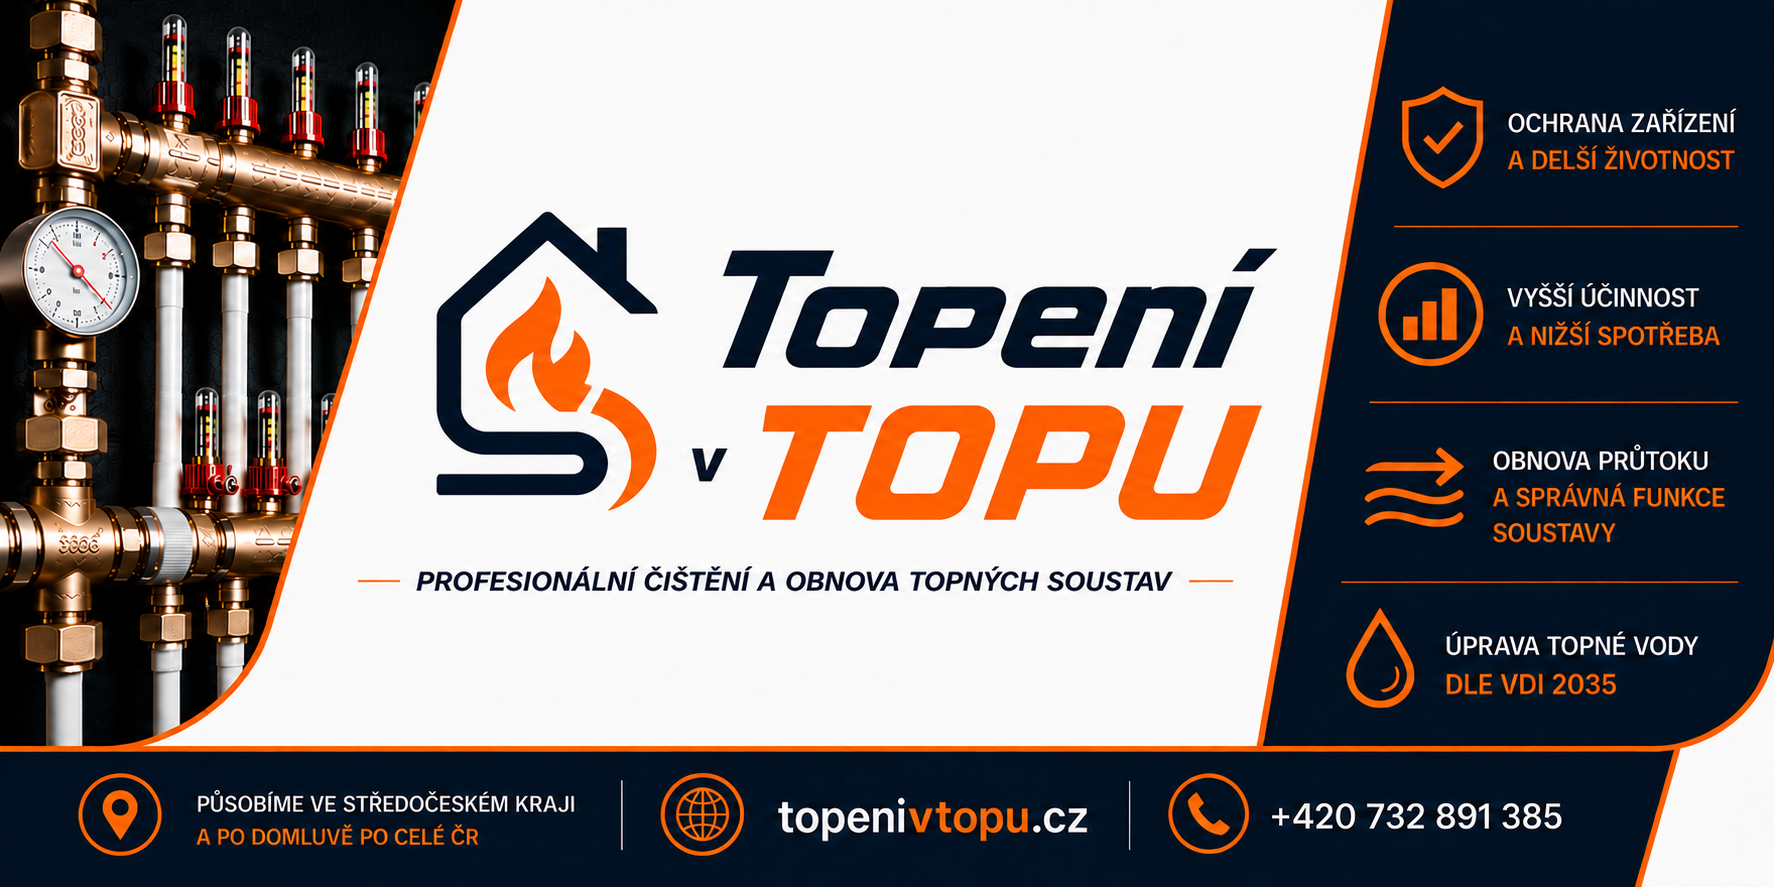
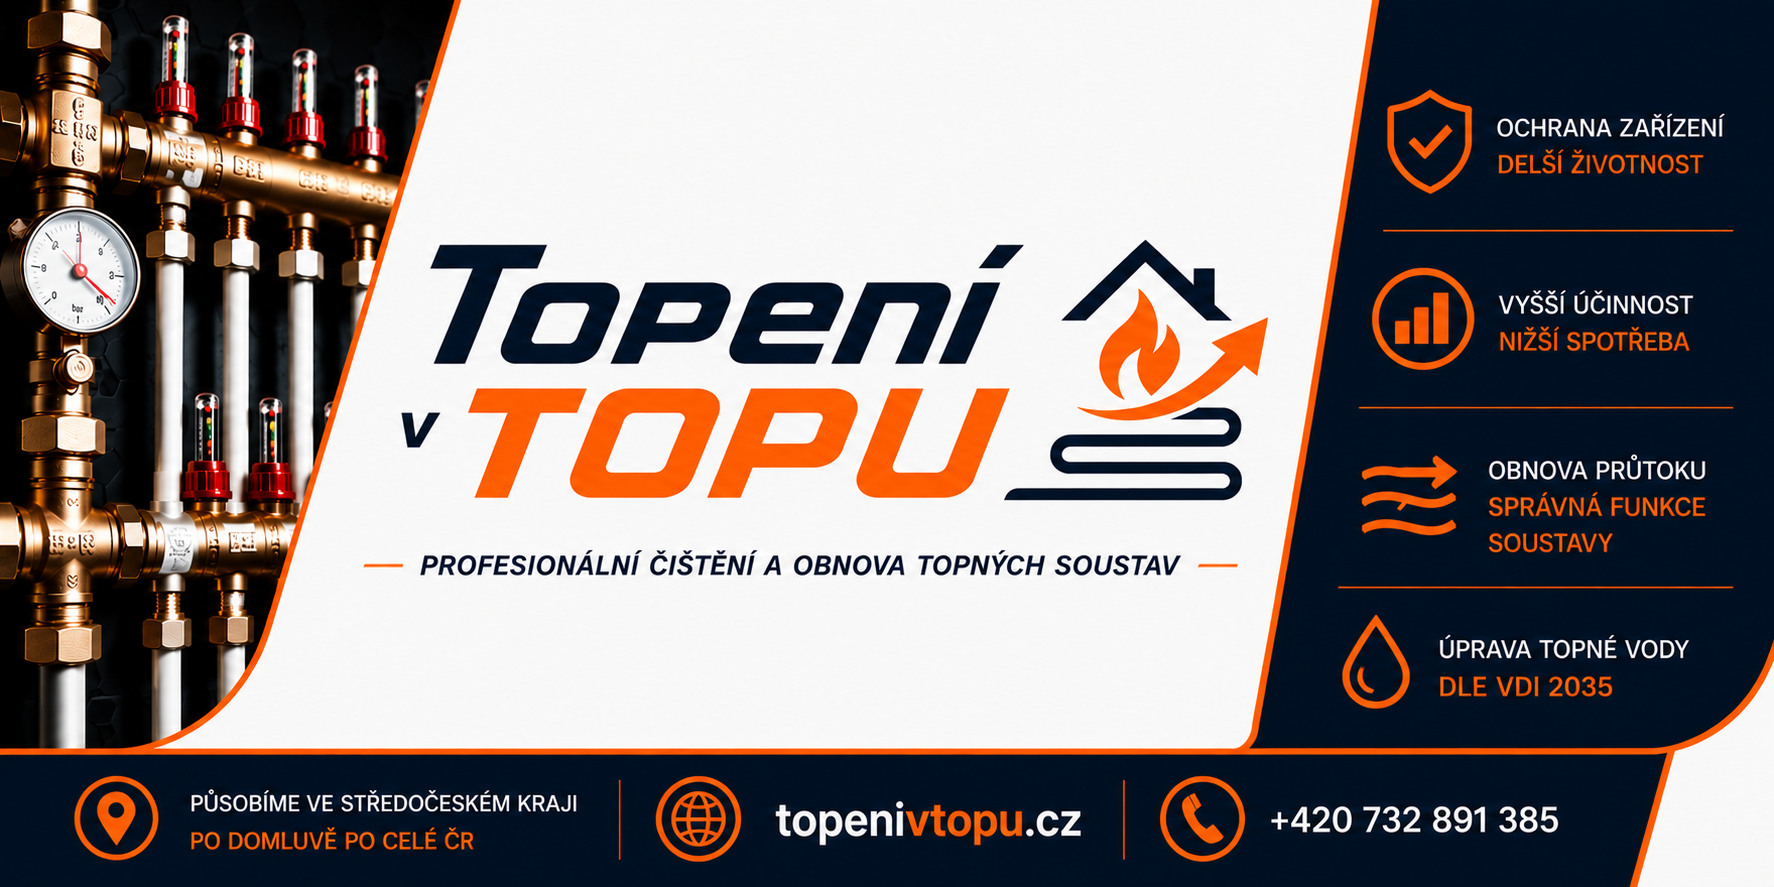
Verze 2 webu

Changed region(s): [[0.0, 0.0, 0.9921, 0.9741], [0.9611, 0.7306, 1.0, 0.8219], [0.8991, 0.9436, 0.9301, 1.0]]

diff --git a/index.html b/index.html
@@ -4,121 +4,154 @@
   <meta charset="utf-8" />
   <meta name="viewport" content="width=device-width, initial-scale=1" />
   <title>Topení v TOPU | Profesionální čištění a obnova topných soustav</title>
-  <meta name="description" content="Profesionální čištění a obnova topných soustav. Proplach topení, obnova průtoku a úprava topné vody dle VDI 2035. Středočeský kraj a po domluvě celá ČR." />
+  <meta name="description" content="Profesionální čištění, obnova průtoku a servis topných soustav ve Středočeském kraji. Radovan Alvín, Topení v TOPU." />
+  <meta name="theme-color" content="#061426" />
+  <meta property="og:title" content="Topení v TOPU" />
+  <meta property="og:description" content="Profesionální čištění a obnova topných soustav ve Středočeském kraji." />
+  <meta property="og:image" content="assets/banner.png" />
   <link rel="stylesheet" href="styles.css" />
 </head>
 <body>
-  <header class="site-header" id="top">
-    <a class="brand" href="#top" aria-label="Topení v TOPU">
-      <img src="assets/logo.png" alt="Topení v TOPU" />
+  <div class="noise"></div>
+  <header class="site-header">
+    <a class="brand" href="#top" aria-label="Topení v TOPU domů">
+      <span class="brand-mark">TOP</span>
+      <span>Topení <b>v TOPU</b></span>
     </a>
-    <nav class="nav" aria-label="Hlavní navigace">
+    <nav>
       <a href="#sluzby">Služby</a>
-      <a href="#proc">Proč to řešit</a>
-      <a href="#postup">Postup</a>
+      <a href="#diagnostika">Diagnostika</a>
+      <a href="#firmy">Pro firmy</a>
       <a href="#kontakt">Kontakt</a>
     </nav>
-    <a class="nav-phone" href="tel:+420732891385">+420 732 891 385</a>
+    <a class="header-phone" href="tel:+420732891385">+420 732 891 385</a>
   </header>
 
-  <main>
+  <main id="top">
     <section class="hero">
-      <div class="hero-content">
-        <p class="eyebrow">Topení v TOPU</p>
-        <h1>Profesionální čištění a obnova topných soustav</h1>
-        <p class="lead">Proplach topení, obnova průtoku a úprava topné vody dle VDI 2035. Pomáháme chránit drahé komponenty a vracet soustavám výkon.</p>
+      <div class="hero-copy reveal">
+        <p class="eyebrow">Středočeský kraj · po domluvě celá ČR</p>
+        <h1>Topná soustava má fungovat. Ne jen nějak přežívat.</h1>
+        <p class="lead">Profesionální čištění, obnova průtoku a úprava topné vody pro rodinné domy, bytové domy, provozy i partnerské firmy.</p>
         <div class="hero-actions">
           <a class="btn primary" href="tel:+420732891385">Zavolat</a>
-          <a class="btn ghost" href="#kontakt">Nezávazná poptávka</a>
+          <a class="btn secondary" href="mailto:[email redacted]">Poslat poptávku</a>
         </div>
         <div class="trust-row">
-          <span>Středočeský kraj</span>
-          <span>Po domluvě celá ČR</span>
-          <span>VDI 2035</span>
+          <span>Obnova průtoku</span>
+          <span>Nižší spotřeba</span>
+          <span>Delší životnost zařízení</span>
         </div>
       </div>
-      <div class="hero-media" aria-label="Ukázka firemního banneru">
-        <img src="assets/banner.png" alt="Topení v TOPU banner" />
-      </div>
-    </section>
-
-    <section class="benefits" id="proc">
-      <article>
-        <div class="icon shield"></div>
-        <h2>Ochrana zařízení</h2>
-        <p>Správně ošetřená topná voda pomáhá chránit čerpadla, ventily, výměníky i tepelné zdroje.</p>
-      </article>
-      <article>
-        <div class="icon chart"></div>
-        <h2>Vyšší účinnost</h2>
-        <p>Obnovený průtok a čistší soustava pomáhají dostat teplo tam, kde má být. Překvapivé, fyzika zase jednou funguje.</p>
-      </article>
-      <article>
-        <div class="icon flow"></div>
-        <h2>Obnova průtoku</h2>
-        <p>Řešíme zanesené okruhy, špatné průtoky a nerovnoměrné vytápění v podlahovém topení i topných soustavách.</p>
-      </article>
-      <article>
-        <div class="icon drop"></div>
-        <h2>Úprava topné vody</h2>
-        <p>Po čištění pomáháme nastavit parametry vody podle smysluplných technických požadavků včetně VDI 2035.</p>
-      </article>
-    </section>
-
-    <section class="split" id="sluzby">
-      <div>
-        <p class="eyebrow">Co děláme</p>
-        <h2>Neprodáváme hadici s čerpadlem. Řešíme kondici topné soustavy.</h2>
-        <p>Pro zákazníka je důležité, aby topení fungovalo spolehlivě, úsporně a bez zbytečného trápení. Proto dává větší smysl řešit celý stav soustavy, ne jen „nějaký proplach“.</p>
-      </div>
-      <div class="service-list">
-        <div>
-          <strong>Proplach topení</strong>
-          <span>Odstranění nečistot, kalů a omezení průtoku.</span>
-        </div>
-        <div>
-          <strong>Obnova výkonu</strong>
-          <span>Lepší průtoky, rovnoměrnější vytápění, lepší funkce okruhů.</span>
-        </div>
-        <div>
-          <strong>Úprava topné vody</strong>
-          <span>Doplnění a kontrola vody s ohledem na ochranu soustavy.</span>
-        </div>
-        <div>
-          <strong>Diagnostika</strong>
-          <span>Základní kontrola průtoků, tlaku a viditelných problémů.</span>
-        </div>
+      <div class="hero-banner reveal">
+        <img src="assets/banner.png" alt="Topení v TOPU - profesionální čištění a obnova topných soustav" />
       </div>
     </section>
 
-    <section class="process" id="postup">
-      <p class="eyebrow">Postup práce</p>
-      <h2>Jednoduše, přehledně, bez divadla</h2>
-      <div class="steps">
-        <article><span>01</span><h3>Kontrola soustavy</h3><p>Podíváme se na typ soustavy, rozdělovače, průtoky a příznaky problému.</p></article>
-        <article><span>02</span><h3>Proplach a čištění</h3><p>Podle stavu provedeme proplach okruhů a odstranění nečistot ze soustavy.</p></article>
-        <article><span>03</span><h3>Úprava vody</h3><p>Topnou vodu řešíme tak, aby dávala technický smysl a chránila zařízení.</p></article>
-        <article><span>04</span><h3>Výsledek</h3><p>Zákazník ví, co bylo provedeno a jaký má soustava další režim údržby.</p></article>
+    <section class="section stats reveal" aria-label="Hlavní přínosy">
+      <div><strong>01</strong><span>Diagnostika problému</span></div>
+      <div><strong>02</strong><span>Čištění a proplach</span></div>
+      <div><strong>03</strong><span>Kontrola výsledku</span></div>
+      <div><strong>04</strong><span>Protokol a doporučení</span></div>
+    </section>
+
+    <section id="sluzby" class="section">
+      <div class="section-head reveal">
+        <p class="eyebrow">Služby</p>
+        <h2>Neprodávám ti nový kotel. Nejdřív dám do pořádku soustavu.</h2>
+        <p>Protože výměna zařízení bez funkčního průtoku je často jen drahá dekorace do technické místnosti. Lidstvo tomu říká modernizace, peněženka tomu říká průvan.</p>
+      </div>
+      <div class="cards">
+        <article class="card reveal">
+          <span class="icon">≈</span>
+          <h3>Proplach topných soustav</h3>
+          <p>Obnova průtoku, odstranění kalu a nečistot ze soustavy. Vhodné pro radiátory, podlahové topení i kombinované systémy.</p>
+        </article>
+        <article class="card reveal">
+          <span class="icon">⌁</span>
+          <h3>Diagnostika závad</h3>
+          <p>Studené radiátory, hlučnost, zanesené filtry, špatný průtok nebo nerovnoměrné topení. Najdeme příčinu, ne jen obětní ventil.</p>
+        </article>
+        <article class="card reveal">
+          <span class="icon">◌</span>
+          <h3>Úprava topné vody</h3>
+          <p>Doporučení a nastavení péče o topnou vodu podle technických požadavků, včetně prevence koroze a usazování nečistot.</p>
+        </article>
+        <article class="card reveal">
+          <span class="icon">▣</span>
+          <h3>Tlaková zkouška a protokol</h3>
+          <p>Kontrola stavu soustavy, dokumentace průběhu práce a výstup, který můžeš předat zákazníkovi, správci nebo partnerovi.</p>
+        </article>
       </div>
     </section>
 
-    <section class="cta" id="kontakt">
-      <div>
+    <section id="diagnostika" class="section diagnostics">
+      <div class="section-head reveal">
+        <p class="eyebrow">Diagnostika problémů</p>
+        <h2>Najdi svůj příznak. Pak řeš příčinu.</h2>
+      </div>
+      <div class="diagnostic-grid">
+        <button class="diagnostic active" data-answer="Nerovnoměrný průtok často znamená zanesení soustavy, špatné vyvážení nebo kombinaci obojího. Začíná se kontrolou filtrů, průtoku a teplotních rozdílů.">Radiátory topí nerovnoměrně</button>
+        <button class="diagnostic" data-answer="Opakovaně zanesený filtr není normální provozní stav. Je to signál, že v soustavě koluje kal, magnetit nebo zbytky po montáži.">Filtr je pořád plný nečistot</button>
+        <button class="diagnostic" data-answer="Chyby průtoku u tepelných čerpadel často nesouvisí s čerpadlem samotným, ale s hydraulikou a nečistotami v okruhu. Proto se řeší soustava, ne panika.">Tepelné čerpadlo hlásí průtok</button>
+        <button class="diagnostic" data-answer="Hlučnost může způsobovat vzduch, usazeniny, nevhodný průtok nebo špatné nastavení. Bez diagnostiky je to věštění z odvzdušňováku.">Soustava šumí nebo bouchá</button>
+      </div>
+      <div class="answer reveal" id="diagnosticAnswer">Nerovnoměrný průtok často znamená zanesení soustavy, špatné vyvážení nebo kombinaci obojího. Začíná se kontrolou filtrů, průtoku a teplotních rozdílů.</div>
+    </section>
+
+    <section id="firmy" class="section split">
+      <div class="reveal">
+        <p class="eyebrow">Spolupráce</p>
+        <h2>Pro instalatéry, správce budov a firmy, které chtějí mít problém vyřešený.</h2>
+      </div>
+      <div class="reveal">
+        <p>Pomůžu tam, kde je potřeba vyčistit, zkontrolovat nebo obnovit funkci topné soustavy. Můžeš mě přizvat jako specializovaného partnera bez toho, abych ti lezl do montážní práce.</p>
+        <ul class="checklist">
+          <li>specializovaný proplach a čištění</li>
+          <li>protokol ke konkrétní zakázce</li>
+          <li>možnost dlouhodobé spolupráce</li>
+          <li>férová komunikace se zákazníkem</li>
+        </ul>
+      </div>
+    </section>
+
+    <section class="section process">
+      <div class="section-head reveal">
+        <p class="eyebrow">Postup</p>
+        <h2>Žádná magie. Jen správný postup.</h2>
+      </div>
+      <div class="timeline">
+        <div class="step reveal"><b>1</b><h3>Prohlídka</h3><p>Zjistíme typ soustavy, počet těles, problém a možnosti napojení.</p></div>
+        <div class="step reveal"><b>2</b><h3>Diagnostika</h3><p>Kontrola filtrů, průtoku, teplotních rozdílů a provozních příznaků.</p></div>
+        <div class="step reveal"><b>3</b><h3>Čištění</h3><p>Proplach vodou, vzduchem a vhodným režimem podle stavu soustavy.</p></div>
+        <div class="step reveal"><b>4</b><h3>Výstup</h3><p>Doporučení další péče, případně protokol a dokumentace pro zákazníka.</p></div>
+      </div>
+    </section>
+
+    <section id="kontakt" class="section contact">
+      <div class="contact-card reveal">
         <p class="eyebrow">Kontakt</p>
-        <h2>Chcete vrátit topení do topu?</h2>
-        <p>Napište nebo zavolejte. Stačí popsat typ soustavy, problém a lokalitu.</p>
+        <h2>Chceš vědět, jestli má proplach smysl i u tebe?</h2>
+        <p>Pošli fotky technické místnosti, popiš problém a ozvu se s reálným doporučením. Ne pohádkou, že všechno zachrání jeden zázračný přípravek.</p>
+        <div class="contact-actions">
+          <a class="btn primary" href="tel:+420732891385">+420 732 891 385</a>
+          <a class="btn secondary" href="mailto:[email redacted]">[email redacted]</a>
+        </div>
       </div>
-      <div class="contact-card">
-        <a href="tel:+420732891385">+420 732 891 385</a>
-        <a href="https://topenivtopu.cz">topenivtopu.cz</a>
-        <span>Středočeský kraj, po domluvě celá ČR</span>
+      <div class="company reveal">
+        <h3>Topení v TOPU</h3>
+        <p>Radovan Alvín</p>
+        <p>IČO: 19339526</p>
+        <p>Působnost: Středočeský kraj</p>
+        <p>Po domluvě zakázky po celé ČR</p>
       </div>
     </section>
   </main>
 
   <footer>
-    <span>© Topení v TOPU</span>
-    <a href="#top">Nahoru</a>
+    <span>© 2026 Topení v TOPU · Radovan Alvín · IČO 19339526</span>
+    <span><a href="tel:+420732891385">+420 732 891 385</a> · <a href="mailto:[email redacted]">[email redacted]</a></span>
   </footer>
+  <script src="script.js"></script>
 </body>
 </html>

diff --git a/styles.css b/styles.css
@@ -1,29 +1,4 @@
 :root{
-  --navy:#06172f;
-  --navy-2:#0a2344;
-  --orange:#ff650f;
-  --orange-2:#ff7a1a;
-  --text:#0b1628;
-  --muted:#637083;
-  --line:#dfe5ee;
-  --bg:#f6f8fb;
-  --white:#fff;
-  --radius:28px;
-  --shadow:0 24px 70px rgba(6,23,47,.14);
+  --bg:#06111f; --bg2:#0a1d32; --card:#0d2035cc; --text:#f5f7fb; --muted:#a9b5c7; --orange:#ff650d; --orange2:#ff8b2b; --line:#1f3856; --white:#fff;
 }
-*{box-sizing:border-box}
-html{scroll-behavior:smooth}
-body{margin:0;font-family:Inter, ui-sans-serif, system-ui, -apple-system, BlinkMacSystemFont, "Segoe UI", sans-serif;color:var(--text);background:var(--bg);line-height:1.5}
-a{color:inherit;text-decoration:none}
-img{max-width:100%;display:block}
-.site-header{position:sticky;top:0;z-index:20;display:flex;align-items:center;justify-content:space-between;gap:24px;padding:14px clamp(18px,4vw,64px);background:rgba(255,255,255,.88);backdrop-filter:blur(18px);border-bottom:1px solid rgba(6,23,47,.08)}
-.brand img{height:52px;width:auto}.nav{display:flex;gap:24px;font-weight:700;font-size:15px;color:var(--navy)}.nav a:hover,.nav-phone:hover{color:var(--orange)}.nav-phone{font-weight:900;color:var(--navy);white-space:nowrap}
-.hero{display:grid;grid-template-columns:minmax(0,0.95fr) minmax(0,1.35fr);gap:42px;align-items:center;padding:clamp(48px,7vw,110px) clamp(18px,4vw,64px) 56px;background:radial-gradient(circle at 80% 20%,rgba(255,101,15,.12),transparent 28%),linear-gradient(135deg,#fff 0%,#f8fbff 100%)}
-.hero-content{max-width:650px}.eyebrow{margin:0 0 12px;color:var(--orange);font-weight:900;text-transform:uppercase;letter-spacing:.12em;font-size:13px}.hero h1,.split h2,.process h2,.cta h2{margin:0;color:var(--navy);line-height:1.04;letter-spacing:-.04em}.hero h1{font-size:clamp(40px,5.2vw,82px)}.lead{font-size:clamp(18px,1.55vw,22px);color:var(--muted);margin:24px 0 30px}.hero-actions{display:flex;gap:14px;flex-wrap:wrap}.btn{display:inline-flex;align-items:center;justify-content:center;padding:15px 22px;border-radius:999px;font-weight:900}.btn.primary{background:var(--orange);color:#fff;box-shadow:0 14px 34px rgba(255,101,15,.34)}.btn.ghost{border:1px solid var(--line);background:#fff;color:var(--navy)}.trust-row{display:flex;gap:10px;flex-wrap:wrap;margin-top:28px}.trust-row span{padding:9px 12px;border-radius:999px;background:#fff;border:1px solid var(--line);font-weight:800;color:var(--navy);font-size:14px}.hero-media{border-radius:var(--radius);box-shadow:var(--shadow);overflow:hidden;background:#fff}.hero-media img{width:100%;height:100%;object-fit:cover}
-.benefits{display:grid;grid-template-columns:repeat(4,1fr);gap:18px;padding:22px clamp(18px,4vw,64px) 64px}.benefits article{background:#fff;border:1px solid var(--line);border-radius:24px;padding:28px;box-shadow:0 12px 30px rgba(6,23,47,.06)}.benefits h2{font-size:21px;margin:18px 0 8px;color:var(--navy)}.benefits p{margin:0;color:var(--muted)}.icon{width:54px;height:54px;border:3px solid var(--orange);border-radius:16px;position:relative}.icon.shield:before{content:'✓';position:absolute;inset:0;display:grid;place-items:center;color:var(--orange);font-size:30px;font-weight:900}.icon.chart:before{content:'';position:absolute;left:12px;bottom:12px;width:7px;height:17px;background:var(--orange);box-shadow:11px -8px 0 var(--orange),22px -17px 0 var(--orange)}.icon.flow:before{content:'→';position:absolute;inset:0;display:grid;place-items:center;color:var(--orange);font-size:34px;font-weight:900}.icon.drop{border-radius:50%}.icon.drop:before{content:'●';position:absolute;inset:0;display:grid;place-items:center;color:var(--orange);font-size:24px}
-.split,.process,.cta{margin:0 clamp(18px,4vw,64px) 64px;background:#fff;border-radius:var(--radius);border:1px solid var(--line);box-shadow:0 12px 30px rgba(6,23,47,.06)}.split{display:grid;grid-template-columns:1fr 1fr;gap:36px;padding:clamp(32px,5vw,70px)}.split h2,.process h2,.cta h2{font-size:clamp(30px,3.3vw,52px)}.split p{color:var(--muted);font-size:18px}.service-list{display:grid;gap:14px}.service-list div{padding:22px;border-radius:20px;background:var(--bg);border-left:5px solid var(--orange)}.service-list strong{display:block;color:var(--navy);font-size:20px}.service-list span{display:block;color:var(--muted);margin-top:4px}
-.process{padding:clamp(32px,5vw,70px)}.steps{display:grid;grid-template-columns:repeat(4,1fr);gap:16px;margin-top:30px}.steps article{padding:24px;border-radius:20px;background:linear-gradient(180deg,#fff,var(--bg));border:1px solid var(--line)}.steps span{color:var(--orange);font-weight:950}.steps h3{margin:8px 0;color:var(--navy)}.steps p{margin:0;color:var(--muted)}
-.cta{display:grid;grid-template-columns:1fr .8fr;gap:24px;align-items:center;padding:clamp(32px,5vw,70px);background:linear-gradient(135deg,var(--navy),#03101f);color:#fff}.cta h2{color:#fff}.cta p{color:#c8d2e0;font-size:18px}.contact-card{display:grid;gap:12px;background:rgba(255,255,255,.08);border:1px solid rgba(255,255,255,.14);border-radius:24px;padding:26px}.contact-card a{font-size:24px;font-weight:950}.contact-card a:hover{color:var(--orange)}.contact-card span{color:#c8d2e0}
-footer{display:flex;justify-content:space-between;gap:20px;padding:26px clamp(18px,4vw,64px);color:var(--muted);font-weight:700}
-@media (max-width:1000px){.hero,.split,.cta{grid-template-columns:1fr}.benefits,.steps{grid-template-columns:repeat(2,1fr)}.nav{display:none}.brand img{height:44px}}
-@media (max-width:620px){.site-header{padding:12px 16px}.nav-phone{font-size:14px}.hero{padding:34px 16px}.benefits{grid-template-columns:1fr;padding:16px 16px 42px}.steps{grid-template-columns:1fr}.split,.process,.cta{margin:0 16px 42px;padding:26px}.contact-card a{font-size:20px}.hero h1{font-size:38px}}
+*{box-sizing:border-box}html{scroll-behavior:smooth}body{margin:0;font-family:Inter,Segoe UI,Arial,sans-serif;background:radial-gradient(circle at 75% 10%,#12365f 0,#071322 34%,#030811 100%);color:var(--text);line-height:1.6;overflow-x:hidden}.noise{position:fixed;inset:0;pointer-events:none;opacity:.08;background-image:linear-gradient(45deg,transparent 48%,#fff 49%,transparent 50%);background-size:6px 6px;z-index:0}a{color:inherit;text-decoration:none}.site-header{position:sticky;top:0;z-index:50;display:flex;align-items:center;justify-content:space-between;gap:24px;padding:18px 5vw;background:rgba(3,8,17,.74);backdrop-filter:blur(18px);border-bottom:1px solid rgba(255,255,255,.08)}.brand{display:flex;align-items:center;gap:12px;font-weight:800;letter-spacing:.02em}.brand-mark{display:grid;place-items:center;width:42px;height:42px;border:2px solid var(--orange);border-radius:12px;color:var(--orange);font-size:.8rem}.brand b{color:var(--orange)}nav{display:flex;gap:26px;color:var(--muted);font-weight:650;font-size:.95rem}nav a:hover,.header-phone:hover{color:var(--orange)}.header-phone{border:1px solid rgba(255,101,13,.55);padding:10px 16px;border-radius:999px;color:#fff;font-weight:800}.hero{position:relative;display:grid;grid-template-columns:minmax(0,.85fr) minmax(450px,1.15fr);gap:44px;align-items:center;min-height:calc(100vh - 78px);padding:70px 5vw 50px}.hero:before{content:"";position:absolute;right:-12%;top:10%;width:48vw;height:48vw;border-radius:50%;background:radial-gradient(circle,rgba(255,101,13,.23),transparent 60%);filter:blur(10px)}.hero-copy,.hero-banner{position:relative;z-index:1}.eyebrow{margin:0 0 12px;color:var(--orange);font-weight:900;text-transform:uppercase;letter-spacing:.14em;font-size:.8rem}.hero h1{font-size:clamp(2.5rem,6vw,5.8rem);line-height:.95;margin:0 0 22px;letter-spacing:-.06em}.lead{font-size:clamp(1.05rem,1.55vw,1.35rem);color:#d7dfeb;max-width:650px}.hero-actions,.contact-actions{display:flex;flex-wrap:wrap;gap:14px;margin-top:28px}.btn{display:inline-flex;align-items:center;justify-content:center;min-height:50px;padding:0 22px;border-radius:999px;font-weight:900;transition:.25s}.btn.primary{background:linear-gradient(135deg,var(--orange),var(--orange2));box-shadow:0 18px 40px rgba(255,101,13,.25)}.btn.secondary{border:1px solid rgba(255,255,255,.18);background:rgba(255,255,255,.06)}.btn:hover{transform:translateY(-2px)}.trust-row{display:flex;flex-wrap:wrap;gap:12px;margin-top:26px;color:var(--muted);font-weight:800}.trust-row span{border:1px solid rgba(255,255,255,.1);border-radius:999px;padding:8px 12px;background:rgba(255,255,255,.04)}.hero-banner{border-radius:28px;overflow:hidden;border:1px solid rgba(255,255,255,.14);box-shadow:0 30px 90px rgba(0,0,0,.45),0 0 0 1px rgba(255,101,13,.2)}.hero-banner img{display:block;width:100%;height:auto}.section{padding:80px 5vw}.section-head{max-width:850px;margin-bottom:34px}.section h2{font-size:clamp(2rem,4vw,4.2rem);line-height:1;margin:0 0 18px;letter-spacing:-.04em}.section-head p:not(.eyebrow),.split p,.contact-card p{color:var(--muted);font-size:1.08rem}.stats{display:grid;grid-template-columns:repeat(4,1fr);gap:1px;background:var(--line);padding:1px;margin:0 5vw 30px;border-radius:24px;overflow:hidden}.stats div{background:rgba(9,27,47,.9);padding:28px}.stats strong{display:block;color:var(--orange);font-size:2rem;line-height:1}.stats span{color:#dce5f2;font-weight:800}.cards{display:grid;grid-template-columns:repeat(4,1fr);gap:18px}.card,.company,.contact-card,.answer,.step{background:linear-gradient(180deg,rgba(13,32,53,.9),rgba(7,18,32,.88));border:1px solid rgba(255,255,255,.1);border-radius:24px;padding:26px;box-shadow:0 24px 50px rgba(0,0,0,.18)}.card{min-height:280px}.icon{display:grid;place-items:center;width:58px;height:58px;border-radius:18px;background:rgba(255,101,13,.12);color:var(--orange);font-size:2rem;font-weight:900;margin-bottom:22px}.card h3,.step h3,.company h3{margin:0 0 12px;font-size:1.35rem}.card p,.step p,.company p{color:var(--muted);margin:0}.diagnostics{background:linear-gradient(135deg,rgba(255,101,13,.08),rgba(255,255,255,.02));border-top:1px solid rgba(255,255,255,.08);border-bottom:1px solid rgba(255,255,255,.08)}.diagnostic-grid{display:grid;grid-template-columns:repeat(4,1fr);gap:12px}.diagnostic{cursor:pointer;text-align:left;border:1px solid rgba(255,255,255,.11);background:rgba(255,255,255,.05);color:var(--text);padding:20px;border-radius:18px;font-weight:900;font-size:1rem}.diagnostic.active,.diagnostic:hover{border-color:var(--orange);background:rgba(255,101,13,.16)}.answer{margin-top:18px;color:#eaf1fb;font-size:1.2rem;border-color:rgba(255,101,13,.34)}.split{display:grid;grid-template-columns:1fr 1fr;gap:44px;align-items:start}.checklist{list-style:none;padding:0;margin:24px 0 0;display:grid;gap:12px}.checklist li{position:relative;padding-left:32px;color:#dce5f2;font-weight:750}.checklist li:before{content:"✓";position:absolute;left:0;color:var(--orange);font-weight:900}.timeline{display:grid;grid-template-columns:repeat(4,1fr);gap:18px}.step b{display:grid;place-items:center;width:42px;height:42px;border-radius:50%;background:var(--orange);color:#fff;margin-bottom:18px}.contact{display:grid;grid-template-columns:1.5fr .8fr;gap:22px;align-items:stretch}.contact-card{padding:42px}.company{border-color:rgba(255,101,13,.25)}footer{display:flex;justify-content:space-between;gap:20px;flex-wrap:wrap;padding:28px 5vw;border-top:1px solid rgba(255,255,255,.1);color:var(--muted);background:#030811}.reveal{opacity:0;transform:translateY(22px);transition:opacity .7s ease,transform .7s ease}.reveal.visible{opacity:1;transform:none}@media(max-width:1050px){.hero{grid-template-columns:1fr;min-height:auto}.hero-banner{order:-1}.cards,.diagnostic-grid,.timeline,.stats{grid-template-columns:repeat(2,1fr)}.split,.contact{grid-template-columns:1fr}nav{display:none}}@media(max-width:650px){.site-header{padding:14px 18px}.header-phone{display:none}.hero,.section{padding:54px 18px}.hero h1{font-size:2.7rem}.cards,.diagnostic-grid,.timeline,.stats{grid-template-columns:1fr}.stats{margin:0 18px 20px}.contact-card{padding:26px}.brand span:last-child{font-size:.95rem}footer{padding:24px 18px}.hero-banner{border-radius:18px}}

diff --git a/script.js b/script.js
@@ -1,0 +1,12 @@
+const revealItems = document.querySelectorAll('.reveal');
+const observer = new IntersectionObserver((entries)=>{entries.forEach(entry=>{if(entry.isIntersecting){entry.target.classList.add('visible');}})}, {threshold:.12});
+revealItems.forEach(item=>observer.observe(item));
+
+const answer = document.getElementById('diagnosticAnswer');
+document.querySelectorAll('.diagnostic').forEach(btn=>{
+  btn.addEventListener('click',()=>{
+    document.querySelectorAll('.diagnostic').forEach(b=>b.classList.remove('active'));
+    btn.classList.add('active');
+    answer.textContent = btn.dataset.answer;
+  });
+});

diff --git a/README.md b/README.md
@@ -1,0 +1,18 @@
+# Topení v TOPU
+
+Profesionální web pro značku Topení v TOPU.
+
+## Kontakty
+
+- Radovan Alvín
+- IČO: 19339526
+- Telefon: +420 732 891 385
+- E-mail: [email redacted]
+- Působnost: Středočeský kraj
+
+## Soubory
+
+- `index.html` hlavní stránka
+- `styles.css` vzhled
+- `script.js` animace a diagnostika
+- `assets/banner.png` oficiální banner